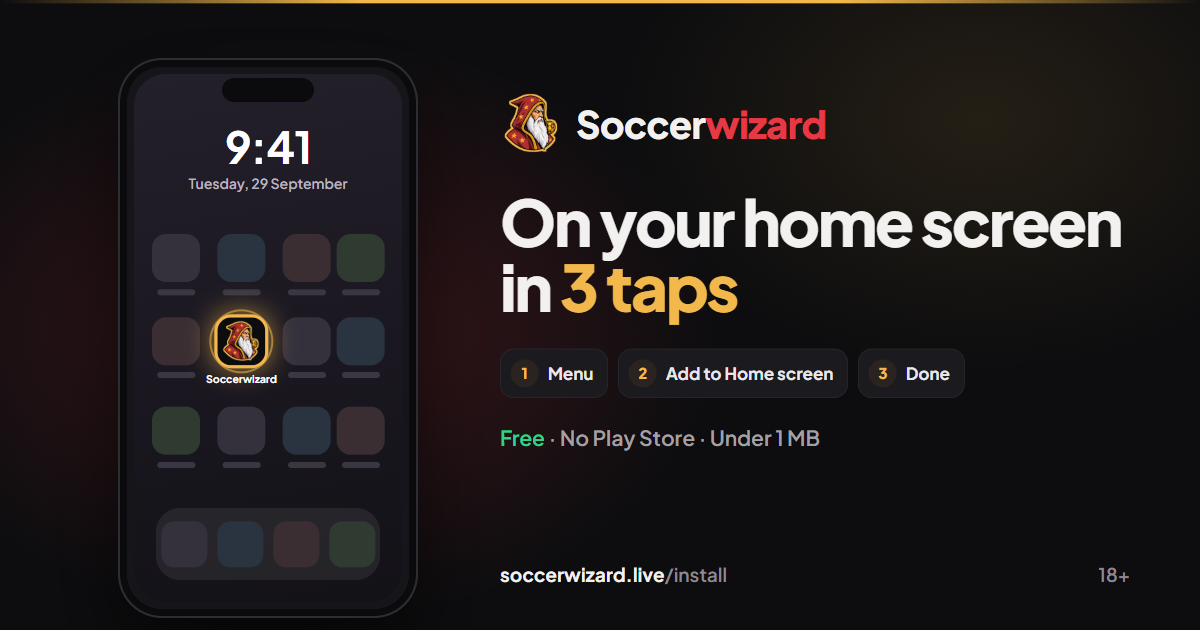
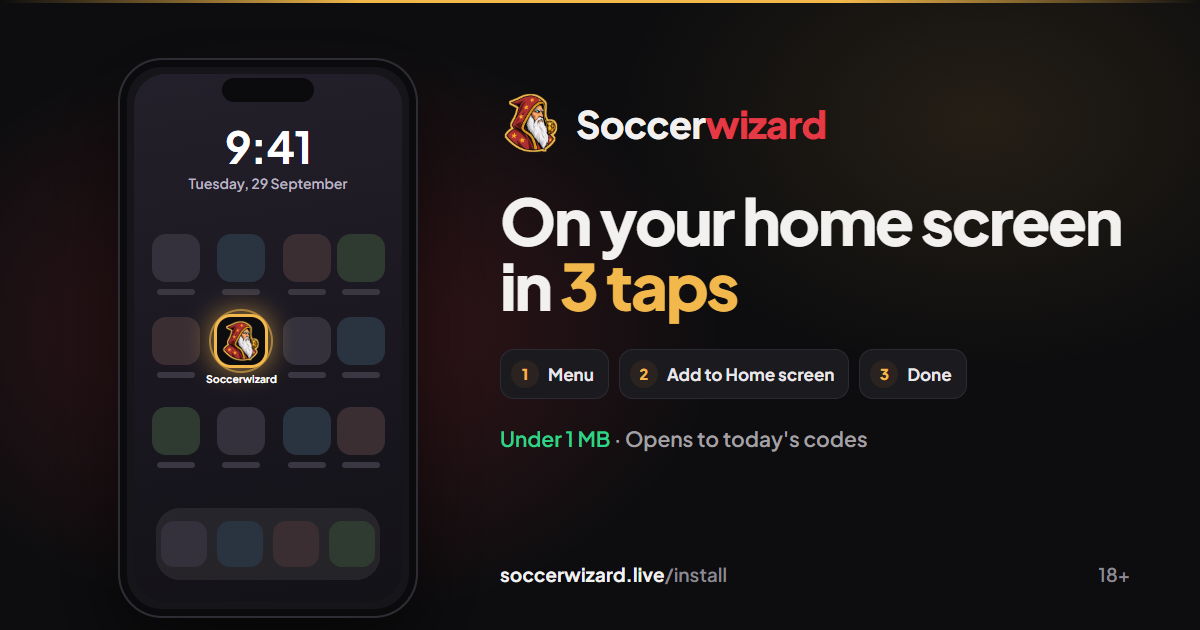
Install link preview: no Free / No Play Store

diff --git a/scripts/og-install.html b/scripts/og-install.html
@@ -77,7 +77,7 @@ h1 em{font-style:normal;color:#F2B84B}
     <div class="st"><b>2</b>Add to Home screen</div>
     <div class="st"><b>3</b>Done</div>
   </div>
-  <p class="sub"><span>Free</span> · No Play Store · Under 1 MB</p>
+  <p class="sub"><span>Under 1 MB</span> · Opens to today's codes</p>
 </div>
 <div class="foot"><span><b>soccerwizard.live</b>/install</span><span>18+</span></div>
 </body></html>
